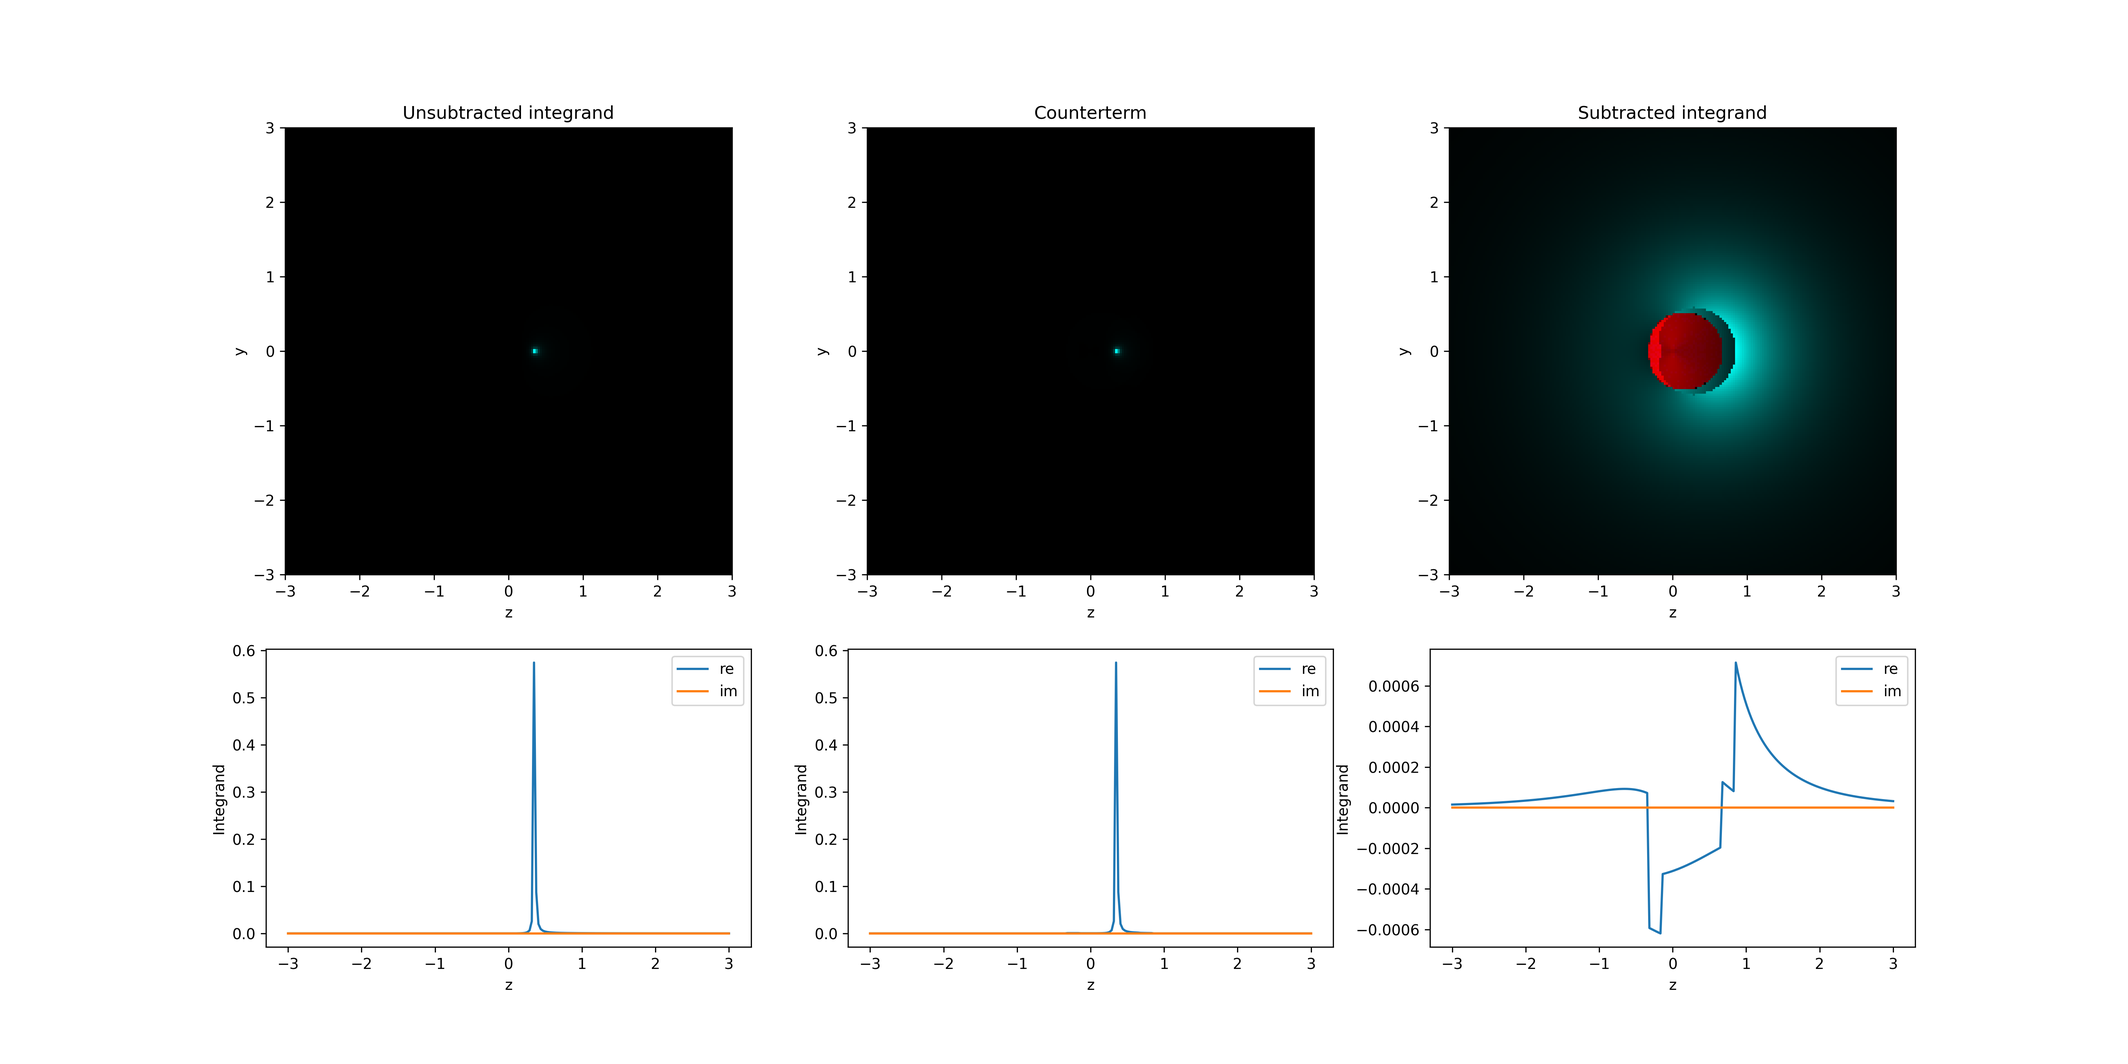
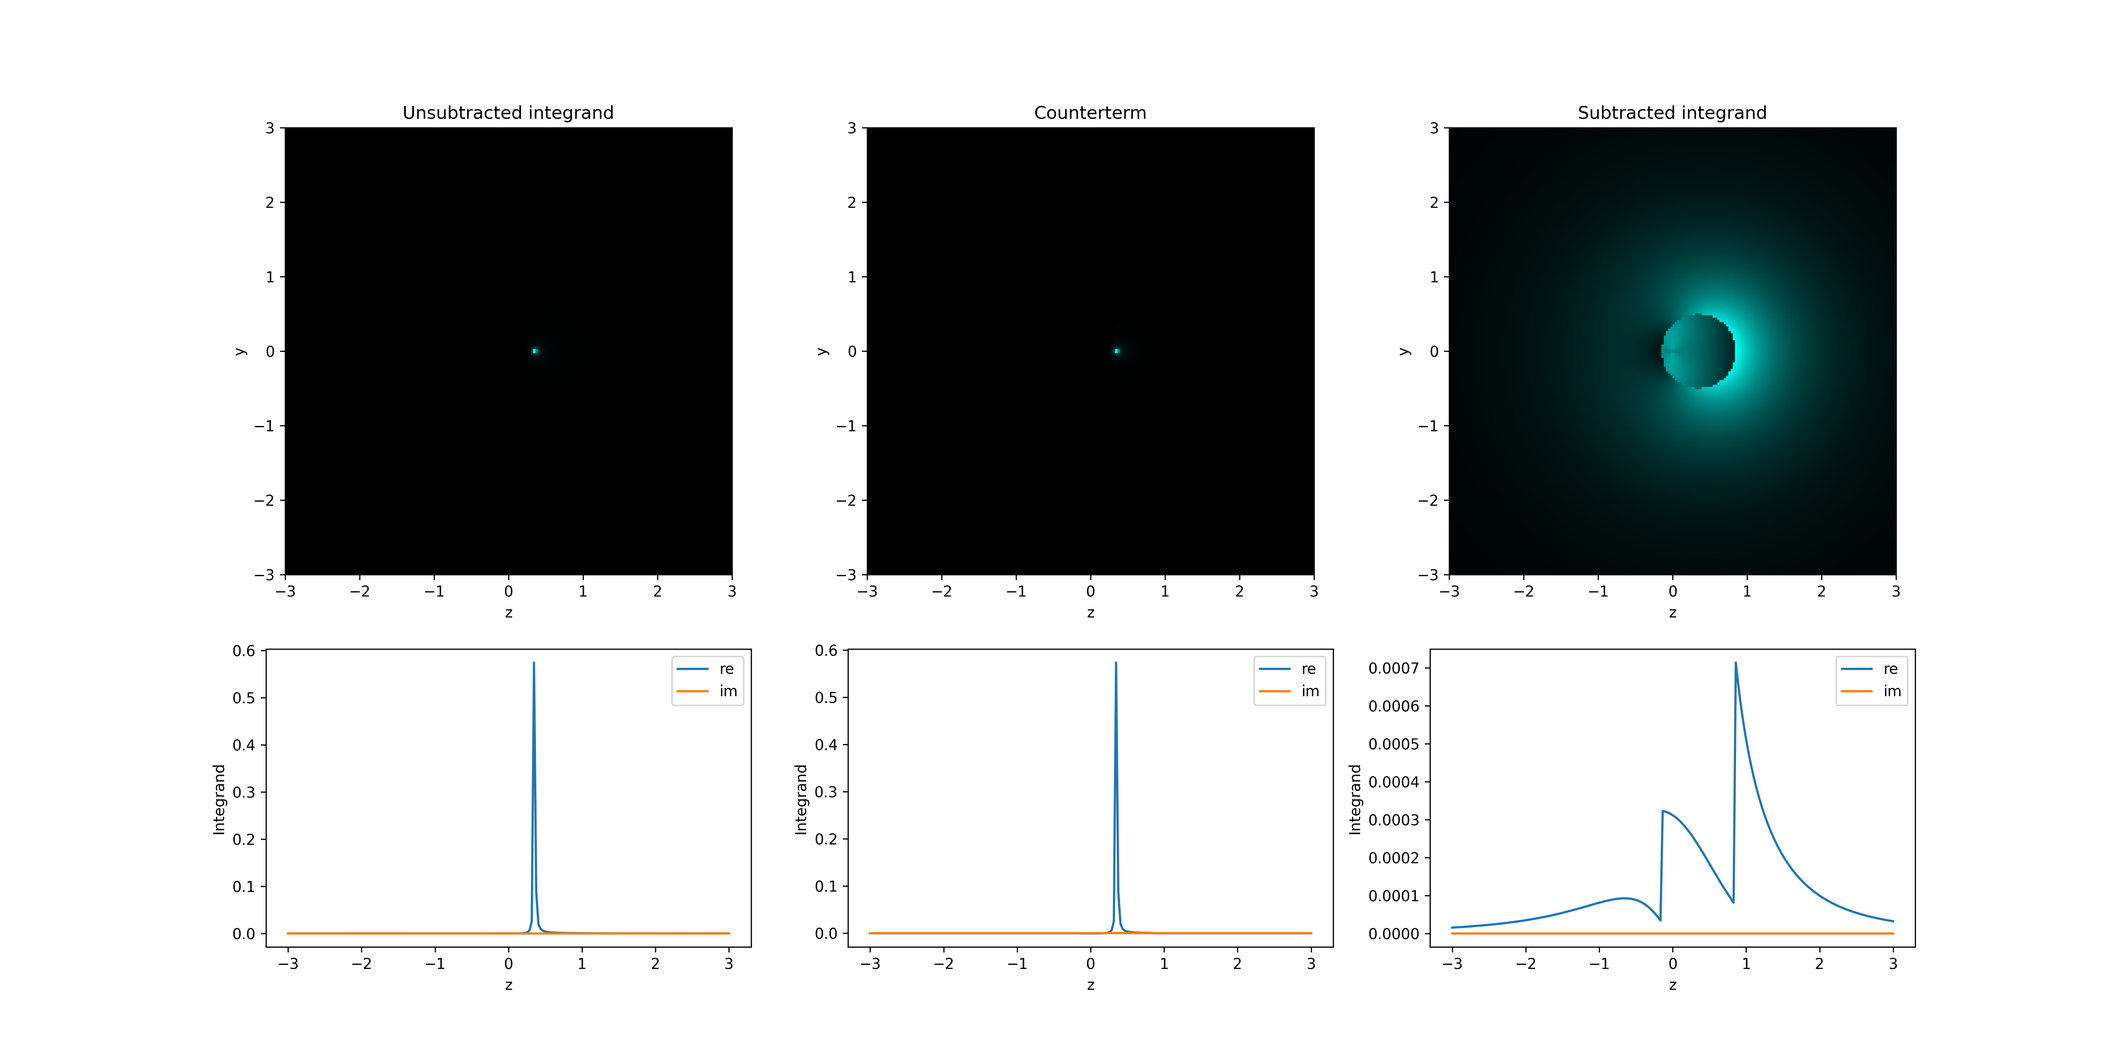
added complex dist

diff --git a/latex/main.tex b/latex/main.tex
@@ -717,7 +717,7 @@ The RSD is shown in fig.~\ref{fig:small_width_rsd}. We can see, that both subtra
 
 \subsection{Threshold masses}\label{sec:threshold_masses}
 
-We will now take a closer look at what happens in configurations with real masses, where imaginary solutions to the E-surface eq.~\eqref{eq:e_surface} exist. We will check if subtracting the imaginary solutions in these cases improve numerical stability especially for configurations very close to thresholds where E-surfaces come into existence.
+We will now take a closer look at what happens in configurations with real masses, where imaginary solutions to the E-surface eq.~\eqref{eq:e_surface} exist. We will check if subtracting the imaginary solutions in these cases improves numerical stability especially for configurations very close to thresholds where E-surfaces come into existence.
 
 We will use the same external kinematics as in sect.~\ref{sec:small_width} and equal internal masses $m_i = m$. 
 
@@ -725,8 +725,13 @@ We will use the same external kinematics as in sect.~\ref{sec:small_width} and e
     \vb{p_1}^2 = \SI{1}{\GeV^2} \qquad \vb{p_2}^2 = \SI{3}{\GeV^2} \qquad {(\vb{p_1} + \vb{p_2})}^2 = \SI{8}{\GeV^2} \qquad \Im(m) = 0
 \end{align*}
 
-We will sweep the real-valued mass $m$ across a large range of values to check numerical stability of the integral as E-surfaces go out of existence. In the case of the minimum value subtraction condition, the subtraction for these E-surfaces simply stops, while in the case of the numerical check the threshold subtraction is still applied to complex solutions. It will be interesting to see if the numerical check is more stable than the minimum value subtraction condition, especially near the threshold masses.
-
+We will sweep the real-valued mass $m$ across a large range of values to check numerical stability of the integral as E-surfaces go out of existence. We will also investigate three different subtraction methods and compare the results. 
+\begin{itemize}
+    \item \textbf{No subtraction condition} No subtraction is performed.
+    \item \textbf{Minimum value subtraction condition} The real part of the minimum value of the E-surface is used to determine if the threshold subtraction is needed. As an E-surface goes out of existence, the minimum value of the E-surface becomes positive and simply stops. This method is performed with a subtraction region with a fixed half-width centered around the \emph{real} part of the threshold location.
+    \item \textbf{Numerical check subtraction condition} Only a numerical check is performed to determine if the threshold subtraction is needed. This method is performed with a subtraction region with a fixed half-width centered around the \emph{real} part of the threshold location. This means that complex valued solutions always get subtracted if they exist.
+    \item \textbf{Sliver subtraction with complex distance} For this method the effective region of the subtraction is a sliver with a half width of $\lambda = \SI{1}{\GeV}$ centered around the \emph{complex} valued location of the thresholds, in accordance to eq.~\ref{eq:sliver_mod}. The mask for the integrated counterterm stays as a sliver with a fixed half width centered around the \emph{real} part of the threshold. As the imaginary part of the threshold gets larger, the subtraction region gets smaller, until it vanishes.
+\end{itemize}
 
 Using the E-surface existence condition for the equal mass case derived in sect.~\ref{sec:equal_mass_case} we can compute the values of the masses where the E-surface eq.~\eqref{eq:e_surface} goes from having real to complex solutions. We will call these masses threshold masses. For this example they are
 
@@ -736,7 +741,8 @@ Using the E-surface existence condition for the equal mass case derived in sect.
 
 Plotting the integral over a range including all of these threshold masses shown in fig.~\ref{fig:threshold_masses_integral} we see that both methods of subtracting E-surfaces converge well on the correct result. We can also note that for masses larger than the largest threshold mass, the imaginary part of the integrand is equal to zero. This is expected, because in this case no singularities exist in the real-valued integrand, that could introduce any imaginary part.
 
-The result of the numerical integration is shown in fig.~\ref{fig:threshold_masses_integral}. It can be seen, that both methods converge well on the correct result.
+
+The result of the numerical integration is shown in fig.~\ref{fig:threshold_masses_integral}. It can be seen that all methods converge well on the correct result, except for the method where no subtraction is performed.
 \begin{figure}[H]
     \centering
     \begin{subfigure}[t]{0.48\textwidth}
@@ -750,14 +756,28 @@ The result of the numerical integration is shown in fig.~\ref{fig:threshold_mass
         \includegraphics[width=\textwidth]{assets/threshold_masses/per_sample_check.png}
         \caption{Without minimum value subtraction condition}
     \end{subfigure}
+        \hfill
+    \begin{subfigure}[t]{0.48\textwidth}
+        \centering
+        \includegraphics[width=\textwidth]{assets/threshold_masses/variable.png}
+        \caption{Sliver subtraction with complex distance}
+    \end{subfigure}
+    \hfill
+    \begin{subfigure}[t]{0.48\textwidth}
+        \centering
+        \includegraphics[width=\textwidth]{assets/threshold_masses/unsubtracted.png}
+        \caption{Unsubtracted integrand}
+    \end{subfigure}
     \caption{Integration result with different E-surface subtraction conditions}\label{fig:threshold_masses_integral}
 \end{figure}
 
-We now examine the RSD for the different methods. This is shown in fig.~\ref{fig:threshold_masses_rsd}. As expected the integration for masses smaller than the smallest threshold mass $m^2 < \SI{0.25}{\GeV^2}$ has exactly the same behavior for the numerical and minimum value check. More interesting is that we can see that even for larger masses, up to the largest threshold mass $m^2 < \SI{2}{\GeV^2}$, the RSD of the two methods are very close to each other. As the largest threshold mass $m^2 < \SI{2}{\GeV}^2$ is reached, the RSD for the numerical check starts to diverge from the minimum value method. Surprisingly it is the minimum value method that has the lower RSD\@.
+We now examine the RSD for the different methods. This is shown in fig.~\ref{fig:threshold_masses_rsd}. As expected the integration for masses smaller than the smallest threshold mass $m^2 < \SI{0.25}{\GeV^2}$ has exactly the same behavior for the numerical and minimum value check. More interesting is that we can see that even for larger masses, up to the largest threshold mass $m^2 < \SI{2}{\GeV^2}$, the RSD of the two methods are very close to each other. As the largest threshold mass $m^2 < \SI{2}{\GeV^2}$ is reached, the RSD for the numerical check starts to diverge from the minimum value method. Surprisingly it is the numerical check which subtracts all solutions that has the highest RSD\@, while the other methods outperform the numerical check. 
+
+The fact that the complex distance method still performs well, indicates that the threshold subtraction of non-existing E-surfaces is only needed very close to the threshold masses. For configurations where the E-surface is not close to existing, subtraction actually hurts performance by introducing variance.
 
 We can qualitatively check if the threshold subtraction successfully regularizes the integrand by plotting the threshold subtraction for a configuration with a mass near the threshold mass $m = (\sqrt{2} + \delta)\si{\GeV}$. This is shown in fig.~\ref{fig:threshold_masses_sub}. It can be seen, that the threshold subtraction indeed regularizes the integrand, so the reason for the divergence is not due to a failure of the threshold subtraction method.
 
-To investigate this further we plot the RSD for a smaller range of masses near $m^2 < \SI{2}{\GeV^2}$ This is shown in fig.~\ref{fig:threshold_masses_rsd_zoomed}. There it can be seen, that the RSD for the unsubtracted method starts to decrease even for masses smaller than the threshold mass. This indicates that as the size of the E-surface decreases, its effect on the integrand becomes less important. As the E-surface transitions from a 2-dimensional spheroidal surface to a 0-D point, the effect of the E-surface on the integrand vanishes. Threshold subtraction can increase the RSD slightly by enlarging the integrand over broad regions, where it initially might have been close to zero. This small increase in the RSD likely is the reason for the worse performance of the numerical check. This is an interesting and important observation, as it indicates that threshold subtraction is not effective for ``imaginary'' E-surfaces, meaning that the numerical check is not needed and the more performant and numerically stable minimum value method can be used.
+To investigate this further we plot the RSD for a smaller range of masses near $m^2 < \SI{2}{\GeV^2}$ This is shown in fig.~\ref{fig:threshold_masses_rsd_zoomed}. There it can be seen, that the RSD for the unsubtracted method starts to decrease even for masses smaller than the threshold mass. This indicates that as the size of the E-surface decreases, its effect on the integrand becomes less important. As the E-surface transitions from a 2-dimensional spheroidal surface to a 0-D point, the effect of the E-surface on the integrand gets smaller. Threshold subtraction can increase the RSD slightly by enlarging the integrand over broad regions, where it initially might have been close to zero. We also observe that the complex distance method outperforms all other methods throughout the entire range of masses, indicating that this is the most effective method to regularize the integrand.
 \begin{figure}[H]
     \centering
     \includegraphics[width=0.8\textwidth]{assets/threshold_masses/rsd.png}
@@ -784,7 +804,7 @@ To investigate this further we plot the RSD for a smaller range of masses near $
 
 
 \section{Conclusion}\label{sec:conclusion}
-In this thesis we were able to show that threshold subtraction is a valid and effective method of removing singularities from the triangle integral in the Cross-Free Family representation. Section~\ref{sec:small_width} shows, that subtraction of the poles in the complex plane is important for convergence, as the width, which regularizes the integral, gets small. Surprisingly the subtraction of poles corresponding to nonexisting or barely existing E-surfaces does not significantly improve convergence of the integration, as shown in fig.~\ref{fig:threshold_masses_rsd_zoomed}, even though the thresholds are subtracted correctly as seen in fig.~\ref{fig:threshold_masses_sub}. The reason for this is that the geometrical size of the E-surfaces is small, in fact point-like. This makes their contribution vanish even without threshold subtraction. Because of the success of the subtraction of complex thresholds, we think that this is a promising method to regularize integrals within the complex mass scheme and warrants further study in the multi-loop context. Also not studied here, but of interest, is the interplay of complex-valued threshold regularization with a local realization of the Complex-Mass Scheme renormalization procedure shown in refs.~\cite{capatti_local_2021,frederix_automation_2018}.
+In this thesis we were able to show that threshold subtraction is a valid and effective method of removing singularities from the triangle integral in the Cross-Free Family representation. Section~\ref{sec:small_width} shows, that subtraction of the poles in the complex plane is important for convergence, as the width, which regularizes the integral, gets small. Surprisingly the subtraction of poles corresponding to nonexisting or barely existing E-surfaces does not significantly improve convergence of the integration. For certain subtraction conditions it can even worsen convergence, as shown in fig.~\ref{fig:threshold_masses_rsd_zoomed}, even though the thresholds are subtracted correctly as seen in fig.~\ref{fig:threshold_masses_sub}. The reason for this is that the geometrical size of the E-surfaces is small, in fact point-like. This makes their contribution vanish even without threshold subtraction. Because of the success of the subtraction of complex thresholds, we think that this is a promising method to regularize integrals within the complex mass scheme and warrants further study in the multi-loop context. Also not studied here, but of interest, is the interplay of complex-valued threshold regularization with a local realization of the Complex-Mass Scheme renormalization procedure shown in refs.~\cite{capatti_local_2021,frederix_automation_2018}.
 
 %More generally, we can see that the geometrical configuration of the E-surfaces, at least qualitatively, correlates strongly with the presence of anomalous thresholds! This should motivate further study of the geometrical properties of the E-surfaces for higher loop counts. The physical interpretation and significance of E-surfaces in general is something that warrants further research. Mathematically showing how touching E-surfaces correspond to anomalous thresholds, may lead to a deeper understand of anomalous thresholds in general.
 

diff --git a/latex/additions.tex b/latex/additions.tex
@@ -9,12 +9,11 @@ If the integration center is chosen at exactly the point where the E-surfaces to
 
 In the case of the triangle it is always possible to align all the external momenta along the $z$-axis. This implies that the E-surfaces touch at a point on the $z$-axis, which will be chosen as the origin of the integration. By plotting the E-surfaces we can gain a better understanding of when they intersect. From fig.~\ref{fig:anomalous_grow} we can see that the E-surfaces with indices (1,2) and (1,3) touch for an external momentum $\vb{p_2}^2$ somewhere between $\vb{p_2}^2 = {(\SI{199}{\GeV})}^2$ and $\vb{p_2}^2 = {(\SI{205}{\GeV})}^2$. The location of the E-surface along the z-axis can be obtained with eq.~\ref{eq:quad_k_solutions}. The configuration where the E-surfaces touch can now be found numerically with binary search. The resulting momentum and location of the origin along the $z$-axis $o_z$ are:
 \begin{align}
-    \vb{p_2}^2 &= {(\SI{201.904892331}{\GeV})}^2 \\
-    o_z &= \SI{37.43245959}{\GeV} \\
+    \vb{p_2}^2 & = {(\SI{201.904892331}{\GeV})}^2 \\
+    o_z        & = \SI{37.43245959}{\GeV}         \\
 \end{align}
 
 The validity of these solutions may be qualitatively checked by plotting the intersection point more closely. This is shown in fig.~\ref{fig:anomalous_zoomed}.
-
 
 \begin{figure}[H]
     \centering
@@ -72,8 +71,41 @@ We can also stress-test the threshold subtraction by computing the integral for 
     \caption{Zoomed in integral near threshold}\label{fig:anomalous_integrated_zoomed}
 \end{figure}
 
+We now examine the integral near the intersection of two E-surfaces $A$ and $B$. Assume the surfaces intersect at the origin, and linearize each surface near this point. The integral then reduces locally to
 
+\begin{equation}
+    \int \dd[3]{k} \frac{1}{(\eta_A' \cdot \mathbf{k}) (\eta_B' \cdot \mathbf{k}) + i\epsilon},
+\end{equation}
 
+where $\eta_A'$ and $\eta_B'$ are the gradients of the surfaces at the intersection.
+
+We distinguish two cases:
+\begin{enumerate}
+    \item \textbf{Parallel gradients} surfaces touch
+          If $\eta_A' \parallel \eta_B'$, the singular planes coincide, and the integrand becomes
+
+          \begin{equation}
+              \frac{1}{{(\eta_A' \cdot \mathbf{k})}^2 + i\epsilon}.
+          \end{equation}
+
+          Choosing coordinates with $z$ along $\eta_A'$ and $x,y$ in the plane transverse to it, the integral scales as
+
+          \begin{equation}
+              \int dx,dy,dz \frac{1}{|\eta_A'|^2 z^2 + i\epsilon} \sim \order{\frac{i}{\epsilon}},
+          \end{equation}
+
+          giving a \emph{linear divergence} in $1/\epsilon$.
+
+    \item \textbf{Non-parallel gradients} surfaces intersect along a line/ring
+          If $\eta_A' \not\parallel \eta_B'$, the planes intersect along a line. In coordinates $u,v,\phi$ with $u$ along $\eta_A'$-transverse, $v$ along $\eta_B'$-transverse, and $\phi$ along the intersection line, the integrand locally behaves like
+          \begin{equation}
+              \frac{1}{(|\eta_A'| u)(|\eta_B'| v) + i\epsilon}.
+          \end{equation}
+          Integrating over the transverse directions gives a \emph{finite imaginary contribution}, scaling as
+          \begin{equation}
+              \int du,dv,d\phi \frac{1}{(|\eta_A'| u)(|\eta_B'| v) + i\epsilon} \sim \order{i},
+          \end{equation}
+\end{enumerate}
 
 \section{Generalization to higher loop count}\label{app:generalization_to_higher_loop_count}
 Most of the considerations in this thesis generalize without modification to higher loop count integrals, with the notable exception of finding the intersection point of the E-surfaces along some direction. As the loop count increases, so does the dimension of the integration domain.
@@ -95,17 +127,15 @@ We may then use Newton's method to find the solutions for $\eta = 0$ in the anal
 To get a qualitative understanding of the structure of the E-surfaces, we can visualize the attractors and solutions of the Newton's method. While this is not a rigorous analysis, it provides some insight on the feasibility of the method, i.e.~if we find examples where Newton's methods fails, we know that the method is not applicable. If, however, the convergence behavior appears predictable, it may be worthwhile to rigorously prove when and how Newton's method converges. Let us visualize the attractors for the following multi-loop case with the index $j$ ranging from 0 to 9.
 \begin{align}
     \vb{\hat{k}}_j = \begin{pmatrix}
-        \frac{1}{\sqrt{10}} & 0 & 0
-    \end{pmatrix}\\
+                         \frac{1}{\sqrt{10}} & 0 & 0
+                     \end{pmatrix} \\
     \vb{q}_j = \begin{pmatrix}
-        j-5 & 0 & 0
-    \end{pmatrix}\\
-    m_j = \frac{j}{2}-0.1 i\\
+                   j-5 & 0 & 0
+               \end{pmatrix}                                 \\
+    m_j = \frac{j}{2}-0.1 i                                   \\
 \end{align}
 
 To investigate the behavior of Newton's method, we can plot the attractors and the integrand for this configuration with different values of $Q$. This is shown in figs.~\ref{fig:newton} and~\ref{fig:newton_2}.
-
-
 
 \begin{figure}[H]
     \centering
@@ -123,8 +153,8 @@ To investigate the behavior of Newton's method, we can plot the attractors and t
         \centering
         \includegraphics[width=\textwidth]{assets/newton/015.png}
     \end{subfigure}
-        \caption{Attractors and integrand for different values of $Q$}\label{fig:newton}
-\end{figure}    
+    \caption{Attractors and integrand for different values of $Q$}\label{fig:newton}
+\end{figure}
 \begin{figure}[H]
     \centering
     \begin{subfigure}[t]{0.6\textwidth}
@@ -139,7 +169,6 @@ To investigate the behavior of Newton's method, we can plot the attractors and t
     \caption{Attractors and integrand for different values of $Q$}\label{fig:newton_2}
 \end{figure}
 
-
 In fig.~\ref{fig:newton} we can see that the attractors are stable for small values of $Q$. In this regime it seems like it is possible to define simple heuristics to find seeds for the newton method to find each solution. As $Q$ increases, the solution start to have larger imaginary parts and start to near the branch cuts introduced by the square roots. As this happens the attractors become more chaotic, making it hard to find any heuristics to find the solutions.
 
 In fig.~\ref{fig:newton_2} we can see what happens if we increase $Q$ even more. Both of the solutions vanish one by one behind the branch cuts.
@@ -147,7 +176,7 @@ In fig.~\ref{fig:newton_2} we can see what happens if we increase $Q$ even more.
 These results suggest that Newton's method may not be suited to generalize the method to higher loop count integrals.
 A more feasible approach may be to redefine the problem as a system of quadratic equations:
 \begin{align}
-    \eta = Q + \sum_{i=1}^N \sqrt{{(\vb{k_i} + \vb{q_i})}^2 + m_i^2} = Q + \sum_{i=1}^N P_i\\
+    \eta = Q + \sum_{i=1}^N \sqrt{{(\vb{k_i} + \vb{q_i})}^2 + m_i^2} = Q + \sum_{i=1}^N P_i \\
     P_i^2 = {(\vb{k}_i + \vb{q}_i)}^2 + m_i^2
 \end{align}
 These may then be solved numerically with Homotopy Continuation, as shown in ref.~\cite{breiding_homotopycontinuationjl_2018}. Because the way the square roots are removed does't consider branch cuts, the solutions obtained by this method will need to be checked for validity.
